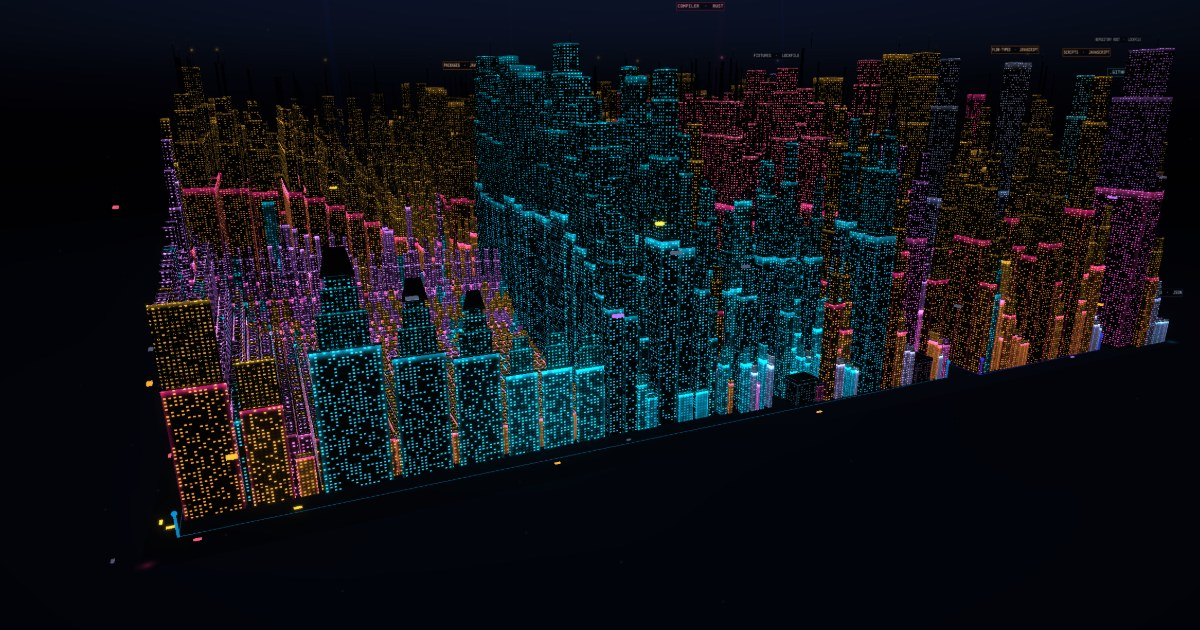
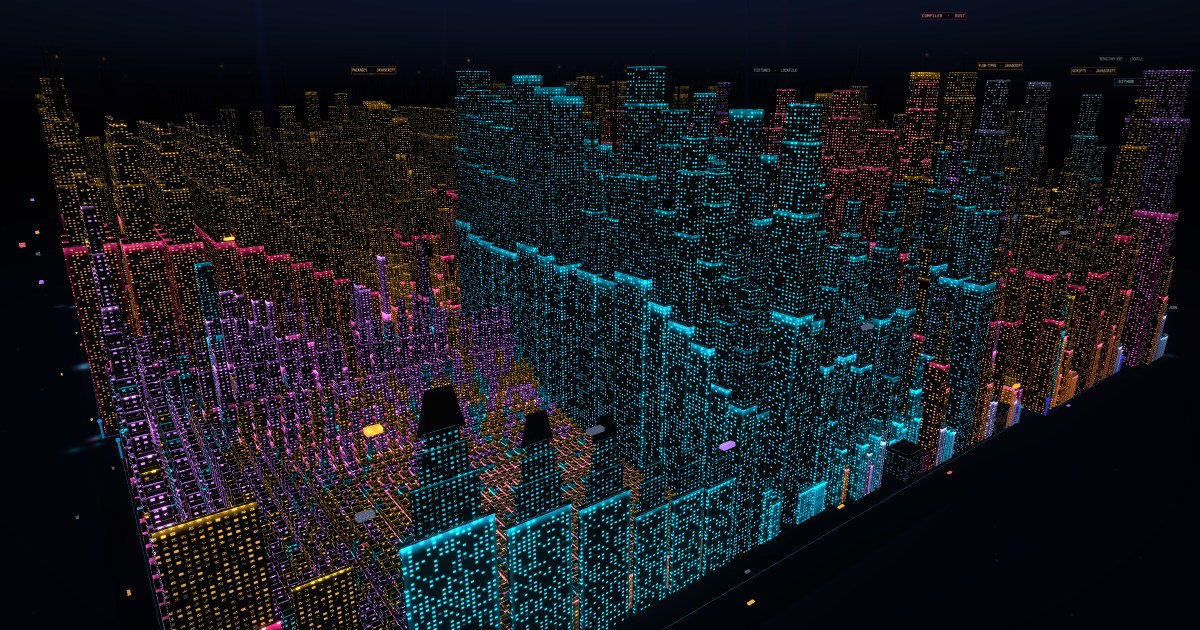
Compose captures for the viewport they are actually rendered in
The camera framing was investigated because the roadmap listed it as
blocked. It is not: measured through the rig against real repositories,
the resting composition already reaches the immersive pose that item
describes as the goal -- widthFill 1.50 against a 1.06 floor, heightFill
0.85 against a 0.88 target. The safeRadius floor the item blamed does not
bind either; solved distance is about 300 against a floor of about 206,
so the height/width fit decides and lowering the floor would change
nothing. A scratch measurement appeared to confirm the old story only
because its fixture omitted totalHeight and produced a degenerate box --
this module returns plausible numbers for a malformed box rather than
throwing, which is worth knowing before trusting one.

What the investigation found instead was a defect in the capture tooling.
hideInterface hides the panels with `display: none` and dispatched a
synthetic resize; the app rightly ignores that, because the window has not
changed size, so scheduleFramingRefresh never ran and the framing stayed
solved for a viewport that still had panels in it. The free viewport goes
860x815 to 1600x900 while the distance stays identical.

So every capture and all five media assets were composed for one viewport
and rendered into another, leaving the city inset where the sidebar had
been -- which is the real reason each of them had wide dead margins.
Asking the app to re-solve directly moves the camera in from 252 to 221
[…]

diff --git a/src/main.ts b/src/main.ts
@@ -23,7 +23,7 @@ import type { Rooftops } from './city/rooftops';
 import { buildDistrictRects, districtFootprint } from './city/districts';
 import { probeBrightness } from './city/brightness-probe';
 import { languageColor, languageDisplayName } from './city/palette';
-import { createCityCameraRig, measureFreeViewport } from './core/camera';
+import { cityRadius, createCityCameraRig, measureFreeViewport } from './core/camera';
 import type { CityCameraRig, FreeViewport } from './core/camera';
 import { createSceneRandom } from './core/random';
 import { DEFAULT_SCENE_SEED, parseSceneHash, serializeSceneHash } from './core/url-state';
@@ -766,10 +766,39 @@ function exposeMeasurementHandle(): void {
    * Cropping is the contained fix; re-framing the app itself is a separate
    * product decision.
    */
+  /*
+   * Re-solve the composition now, rather than after the 450 ms debounce.
+   *
+   * The capture tools hide the UI by injecting `display: none`, which the app
+   * cannot observe: no panel toggle fires, and the synthetic resize event is
+   * dropped by `applyPendingResize` because the window itself did not change
+   * size. The framing therefore stayed solved for a viewport with panels in
+   * it, and every captured city sat inset where the sidebar used to be. A real
+   * user opening or closing a panel already gets a refresh.
+   */
+  (window as unknown as Record<string, unknown>).__repocityRefresh = () => {
+    cityCamera?.refresh();
+  };
+
   (window as unknown as Record<string, unknown>).__repocityFraming = () => {
     if (!cityCamera) return null;
     const { left, top, width, height } = cityCamera.framing.screen;
-    return { left, top, width, height };
+    const view = freeViewport();
+    return {
+      left, top, width, height,
+      // The solver's own measurements. Reported rather than recomputed from
+      // the rect, because both are fractions of the FREE viewport, not of the
+      // canvas — deriving them from canvas size understates a composition
+      // whenever a panel is inset, which is most of the time.
+      widthFill: cityCamera.framing.widthFill,
+      heightFill: cityCamera.framing.heightFill,
+      distance: cityCamera.framing.distance,
+      // So a measurement can tell whether the distance floor is what stopped
+      // the composition reaching its targets, rather than the height fit.
+      cityRadius: cityRadius(cityCamera.visualBox),
+      free: { left: view.left, top: view.top, width: view.width, height: view.height },
+      canvas: { width: view.canvasWidth, height: view.canvasHeight },
+    };
   };
 }
 

diff --git a/docs/ROADMAP.md b/docs/ROADMAP.md
@@ -143,4 +143,8 @@ Two things this cost, both caught by the geometry probe rather than by eye. The 
 
 **Stage 4 — post FX.** Migrate to pmndrs `postprocessing` for selective bloom, SMAA and ACES. Interior roads are done — see below.
 
-**Camera framing against the reference.** The target is an immersive pose with the city overflowing all four edges. It needs the camera inside `safeRadius = cityRadius × 1.15 + 10`; lowering that floor puts the solve in a mixed regime where it binds at some azimuths and not others, and three drift-continuity assertions with 1e-9 tolerances then fail by 4.0, 0.07 and 11.0 — the orbit develops a kink and stops closing smoothly. It also breaks the module's "city fits the free viewport" contract across 12 tests, which is a product decision rather than tuning. Worth retrying now that Stage 2 has filled the voids that made close framing look sparse.
+**~~Camera framing against the reference.~~ Measured, and it already does this.** The target was an immersive pose with the city overflowing the frame, and the composition reaches it: measured through the rig against real repositories, `widthFill` is 1.50 — the `MAX_WIDTH_FILL` ceiling — and `heightFill` 0.85–0.86 against a 0.88 target. Stage 1's work on `OUTLIER_HEADROOM` and `MIN_WIDTH_FILL` is what got it there.
+
+The `safeRadius` floor this item blamed does not bind. Solved distance against a real city box is about 300 while `safeRadius` is about 206, so it is the height/width *fit* that decides and lowering the floor would change nothing. A first attempt to prove otherwise appeared to confirm the old story only because the test fixture omitted `totalHeight` and produced a degenerate box — worth remembering that this module returns plausible-looking numbers for a malformed box rather than throwing.
+
+What the investigation did find was a defect in the capture tooling, not the app. `hideInterface` hid the panels with `display: none` and dispatched a synthetic resize; the app drops that because the window itself has not changed size, so the framing stayed solved for a viewport that still had panels in it. Every capture and every generated media asset was composed for one viewport and rendered in another, leaving the city inset where the sidebar had been. With the refresh wired up, hiding the panels now moves the camera in from 252 to 221 and the city overflows both axes. Real users were never affected: a genuine panel toggle already refreshed.
